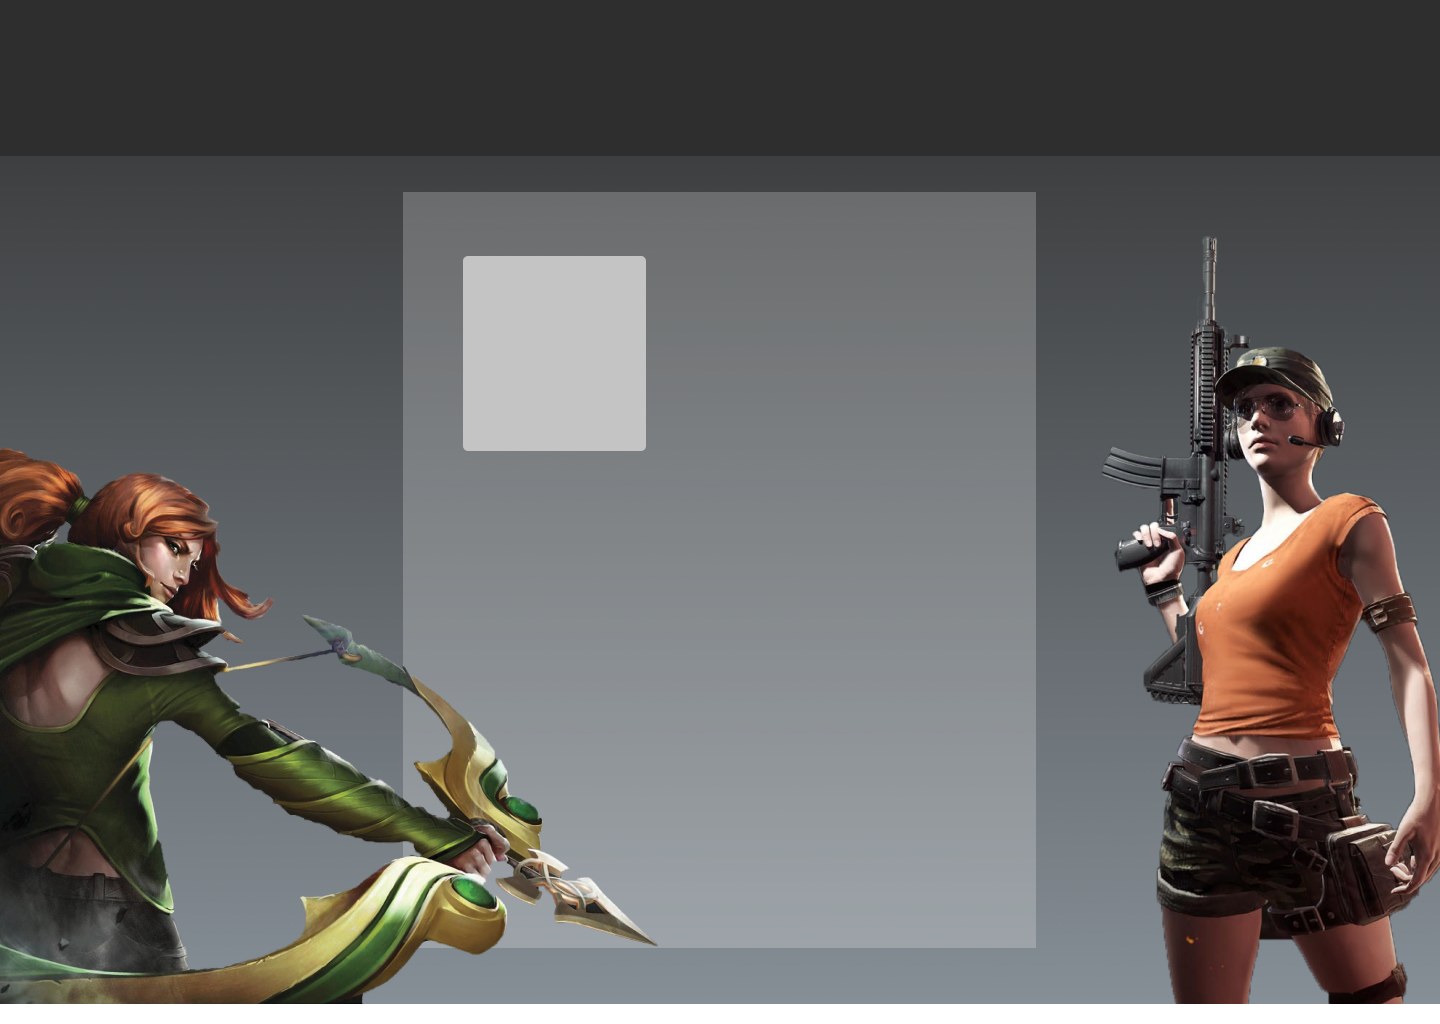
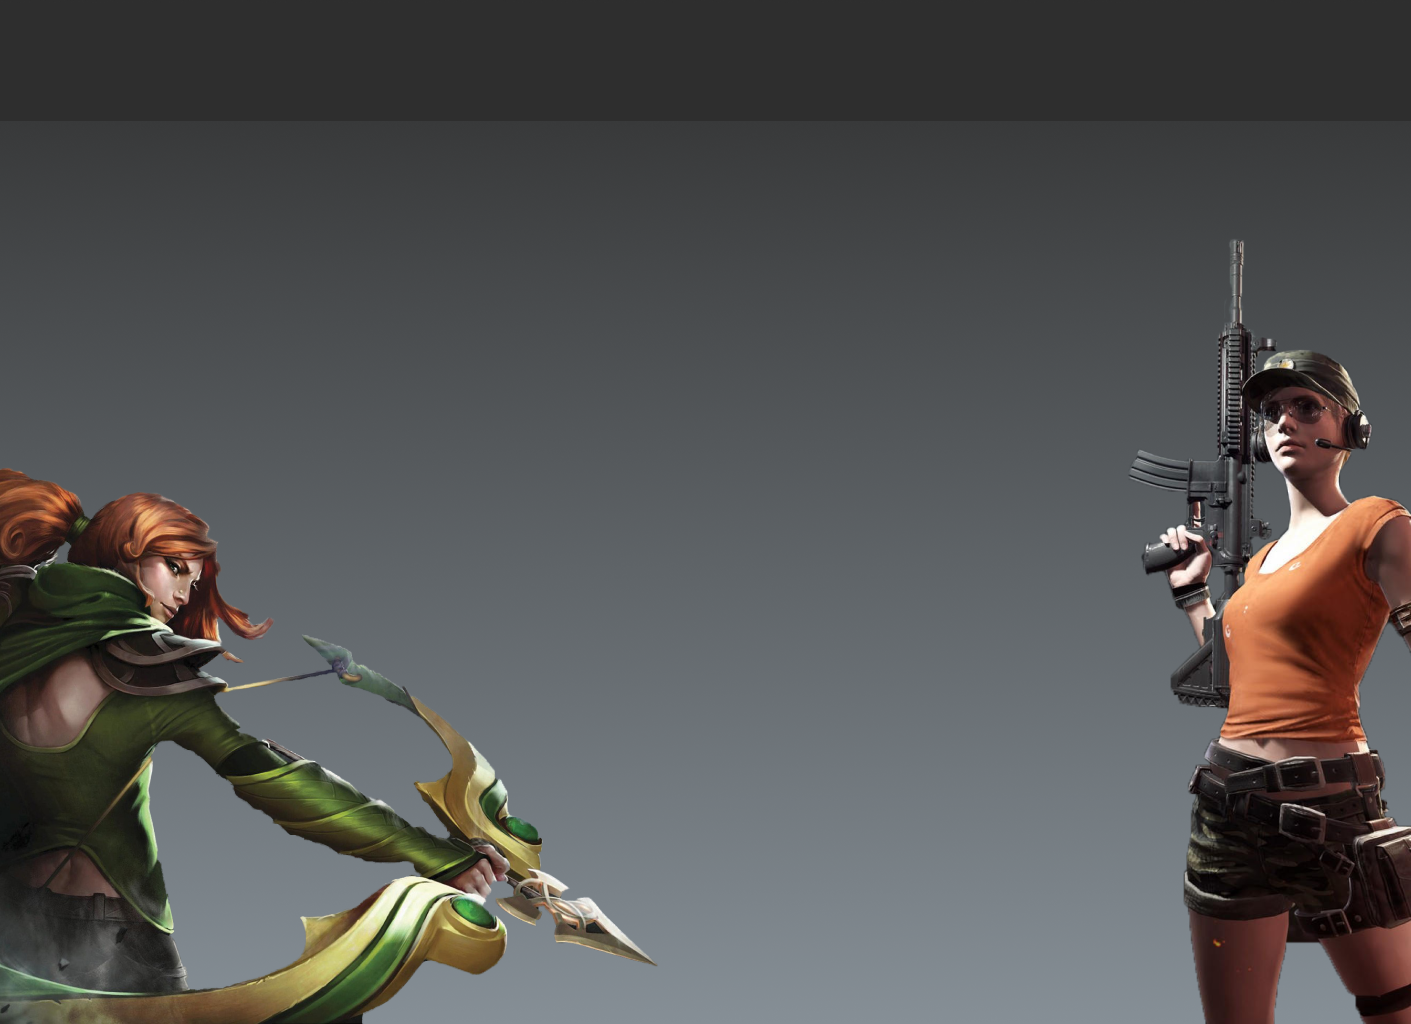
Frontend: Good stuff

diff --git a/frontend/src/app/settings-page/settings-page.component.css b/frontend/src/app/settings-page/settings-page.component.css
@@ -3,77 +3,78 @@
     padding: 0;
 }
 .grid{
+    height: 100%;
     display: grid;
-    
+    grid-template-columns: 1fr 50% 1fr;
+    grid-template-rows: 100%;
+    grid-template-areas:
+    ". content ."
 }
-.header{
-    background-image: url("C:\Users\Simonas\Desktop\steam-bot-hackathon\steam-bot-hackathon\frontend\src\app\images\colored_body_top2.png");
-    height: 15vh;
-    text-align: center;
-}
-.header > h1{
-    margin-top: 10px;
-    font-family: "Motiva Sans", Sans-serif;
-    font-size: 50px;
-    color: #b8b6b4;
 
-}
 .content{
-    background-image: url("C:\Users\Simonas\Desktop\steam-bot-hackathon\steam-bot-hackathon\frontend\src\app\images\settingBg.png");
-
-    background-size: cover;
-    background-position-y: -25vh;
-    height: 110%;
+    grid-area: content;
+    background-color: rgba(110, 104, 104, 0.438);
     display: grid;
+    grid-template-columns: 1fr 1fr 1fr 1fr;
+    grid-template-rows: 1fr 1fr 1fr 1fr 1fr;
+    grid-template-areas: 
+    "square square nameForm nameForm"
+    "square square descriptionForm descriptionForm"
+    "welcomeForm  welcomeForm welcomeForm welcomeForm"
+    "respondForm respondForm respondForm respondForm"
+    ". btn btn ."
 }
-.footer{
-    background-color: rgb(44, 43, 48);
-    height: 5vh;
-}
+
 .nameForm{
-    margin-left: 50vw;
-    margin-top: 10vh;
+    margin-top: 5%;
+    margin-right: 20%;
+    grid-area: nameForm;
+}
+.square{
+   border:solid;
+    margin-left:10%;
+    margin-top:5%;
+ background-image: url("..\images\dogo.png");
+ background-size: cover;
+ width: 60%;
+ height: 80%;
+ grid-area: square;
 }
 .descriptionForm{
-    margin-left: 50vw;
+    margin-right: 20%;
+    grid-area: descriptionForm;
     
 }
 .welcomeForm{
-    margin-left: 31vw;
-    margin-top: 5vh;
-    
+    margin-left: 5%;
+    width:85%;
+    grid-area: welcomeForm;
 }
 .respondForm{
-
-    margin-left: 31vw;
-    margin-top: 5vh;
+    margin-left: 5%;
+    width:85%;
+    grid-area: respondForm;
 }
 .btn{
-    margin-left: 55vw;
-    margin-top: 5vh;
+    grid-area: btn;
 }
 
 mat-form-field{
     background-color: rgb(250, 250, 250);
-    margin:10px;
+    width:100%;
 }
 
 mat-form-field input{
+    width:100%;
     height: auto;
     width: initial;
     padding: 0;
 }
 
-
-
-
-
-
-
 .page1{
-    height: 100vh;
+    background-image: url("..\images\settingBg.png");
+    background-size: cover;
+    background-position-y: -25vh;
+    height: 100%;
 }
-.page2{
 
-    height: 100vh;
-}

diff --git a/frontend/src/app/settings-page/settings-page.component.html b/frontend/src/app/settings-page/settings-page.component.html
@@ -1,15 +1,10 @@
 
 <div class="page1">
     <div class="grid">
-        <div class="header">
-          <h1>STEAM BOT</h1>
-        </div>
+                  <div class="content">
+                    <div class="square">
 
-
-        <div class="content">
-          <div class="settingCard">
-              <form class="example-form">
-
+                    </div>
                 <div class="nameForm">
                     <mat-form-field >
                         <input #NameForm matInput placeholder="Bot name" value={{botName}}>
@@ -31,14 +26,11 @@
                     </mat-form-field><br>
                 </div>
 
+                <div class="btn">
+                <button type="button" mat-raised-button color="accent"  (click)="sendSettings(NameForm.value, DiscriptionForm.value, RespondForm.value)">Change settings</button>
 
-                <div>
-                <button class="btn" type="button" mat-raised-button color="accent"  (click)="sendSettings(NameForm.value, DiscriptionForm.value, WelcomeForm.value, RespondForm.value)">Change settings</button>
               </div>
-            
-          </form>
-          </div>
-            
-        </div>
+            </div>
+          
       </div>
 </div>

diff --git a/frontend/src/app/app.component.css b/frontend/src/app/app.component.css
@@ -8,3 +8,39 @@
 .example-full-width {
   width: 100%;
 }
+mat-toolbar{
+  background-color: #2E2E2E;
+}
+
+.nav{
+  display: inline;
+  width:40%;
+
+}
+.nav a{
+  font-family: Roboto;
+  font-style: normal;
+  font-weight: bold;
+  line-height: normal;
+  font-size: 20px;
+  text-align: center;
+  color: #FFFFFF;
+  padding-left: 5%;
+  padding-right: 5%;
+
+}
+.nick{
+  margin-left: 60%;
+  width:40%;
+
+}
+.nick a{
+  font-family: Roboto;
+  font-style: normal;
+  font-weight: bold;
+  line-height: normal;
+  font-size: 20px;
+  text-align: center;
+  color: #FFFFFF;
+
+}

diff --git a/frontend/src/app/app.component.html b/frontend/src/app/app.component.html
@@ -1,9 +1,15 @@
-<mat-toolbar color="primary">
-  <mat-toolbar-row>
-    <a [routerLink]="'/newMessage'">New message</a>
-    <a [routerLink]="'/dashboard'">Dashboard</a>
-    <a [routerLink]="'/settings'">Settings</a>
-  </mat-toolbar-row>
+<mat-toolbar>
+  
+    <div class="nav">
+        <a [routerLink]="'/newMessage'">New message</a>
+        <a [routerLink]="'/dashboard'">Dashboard</a>
+        <a [routerLink]="'/settings'">Settings</a>
+    </div>
+    <div class="nick">
+        <a>Nickname</a>
+    </div>
+    
+
 </mat-toolbar>
 
 
